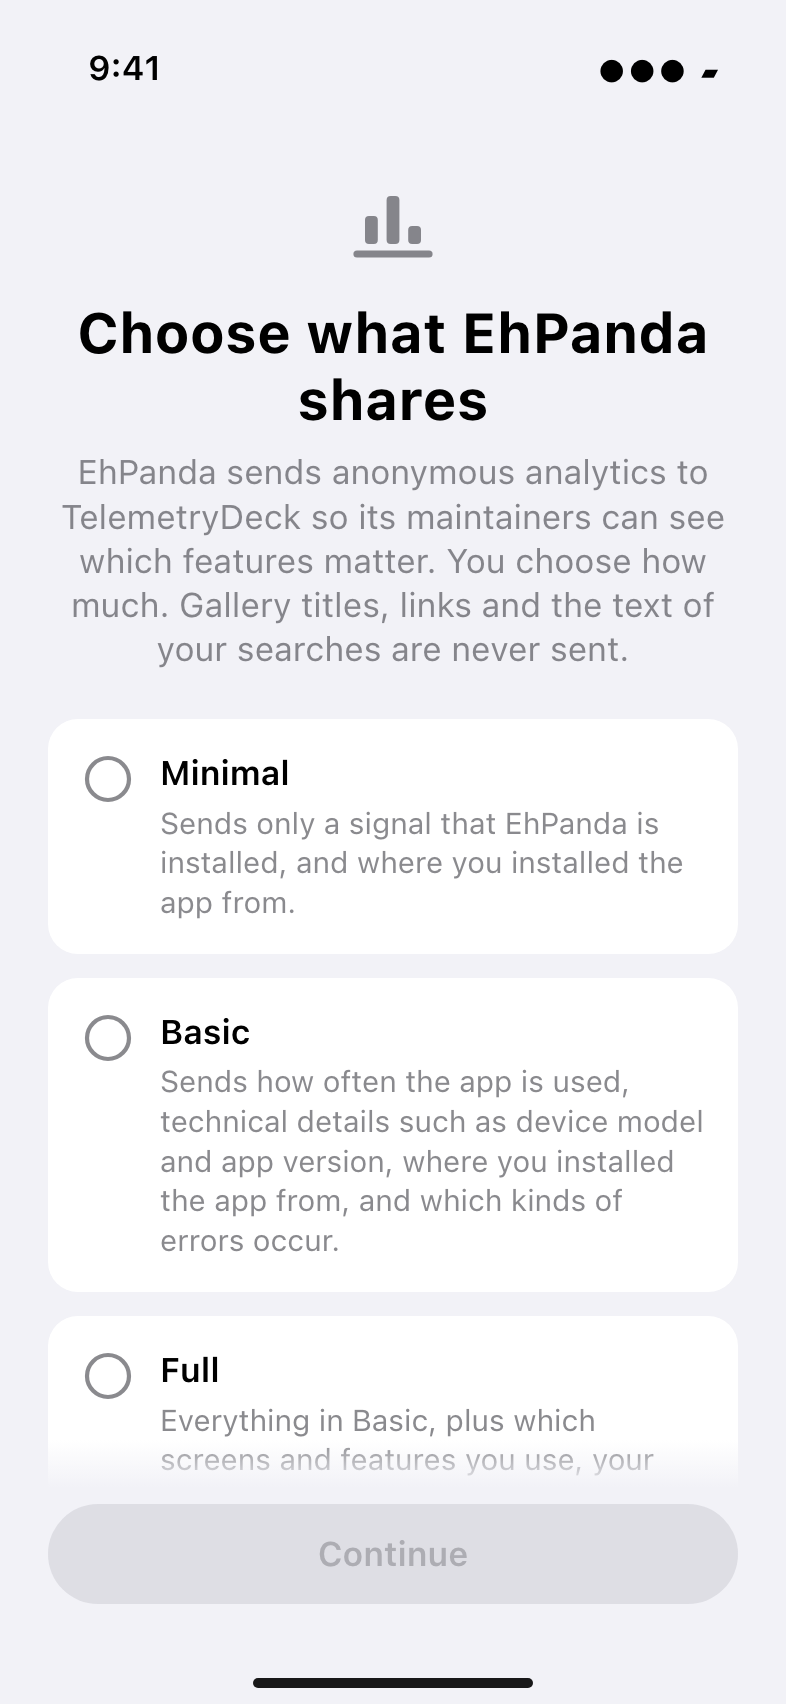
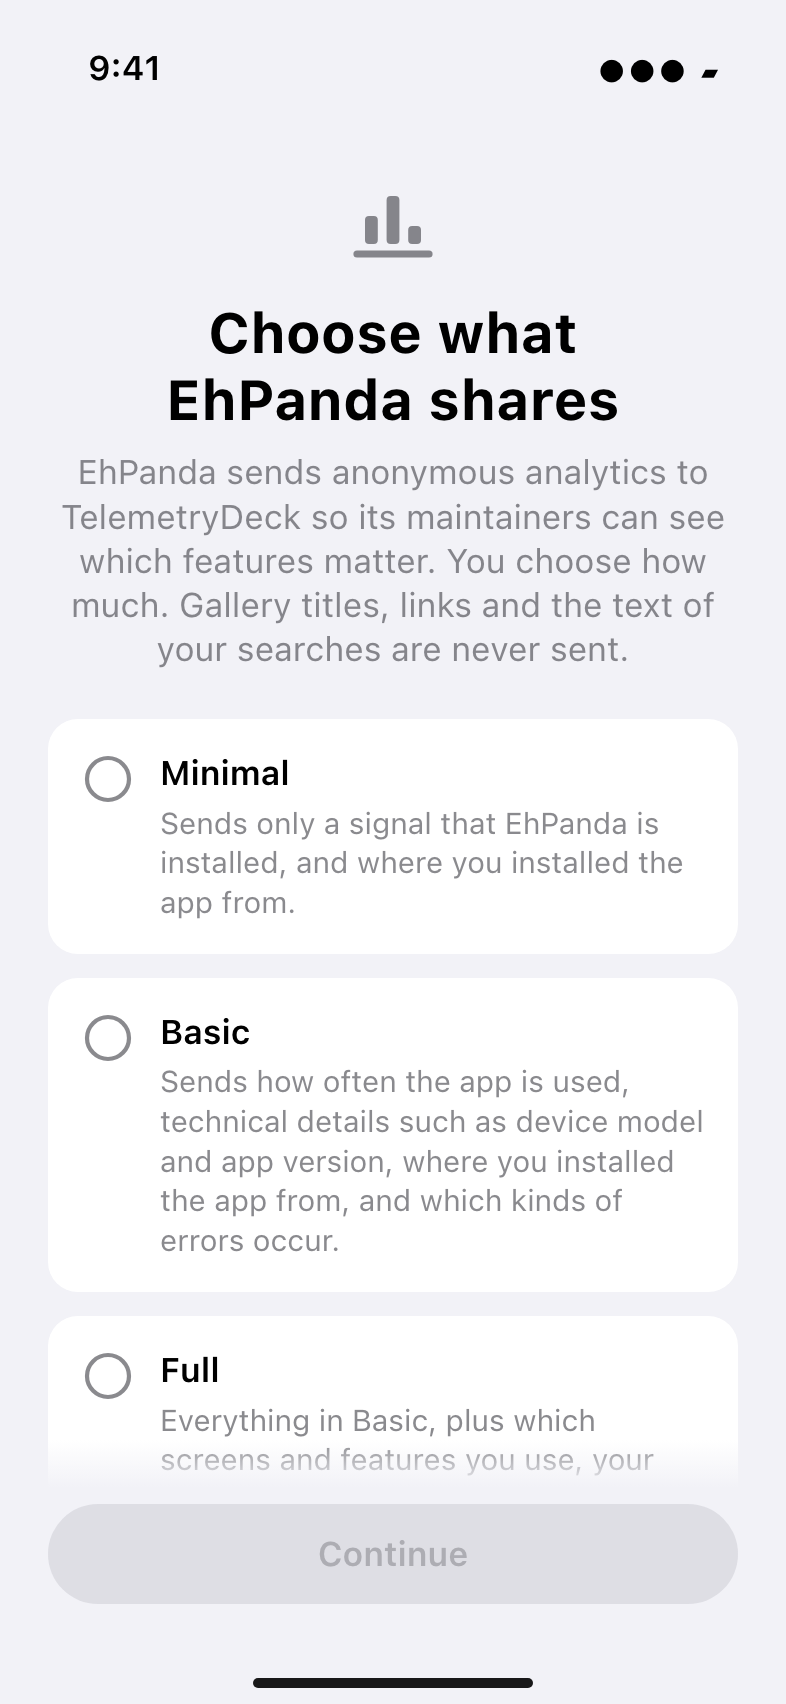
docs(18): take the designer's final spec with the title line-break rule

Changed region(s): [[0.0916, 0.1866, 0.916, 0.2488]]

diff --git a/.planning/phases/18-in-app-3-0-readiness-age-wall-analytics-choice-comment-moder/18-UI-SPEC.md b/.planning/phases/18-in-app-3-0-readiness-age-wall-analytics-choice-comment-moder/18-UI-SPEC.md
@@ -269,6 +269,12 @@ your mind, and a shared Continue keeps both first-launch screens one pattern.
 1. Symbol `chart.bar.xaxis`, `.font(.largeTitle)` + `.imageScale(.large)` (≈ 48pt at default), `.secondary` (neutral — not accent, so nothing nudges), `.accessibilityHidden(true)`.
    32pt from top (72pt regular width).
 2. 16pt · Title `consent.title`, `.title.bold()`, centred, `.isHeader`.
+   **Line breaks (owner msg 1822):** the title must never end on a single word. At default size on iPhone, en
+   reads "Choose what / EhPanda shares", not "Choose what EhPanda / shares". SwiftUI `Text` does this by default
+   (it pulls the previous word down when the last line would hold one word), so: plain `Text`, no `\n` in any
+   locale's string, no `.minimumScaleFactor`, no `.lineLimit`, no fixed width on the title. Acceptance: in every
+   locale and every text size, the title's last line holds at least two words (zh/ja/ko: at least two characters).
+   Same rule for the age wall title (C-2) and the Blocked Users empty-state title.
 3. 8pt · Body `consent.body`, `.body`, `.secondary`, centred.
 4. 24pt · **Three `ChoiceCard`s**, order Minimal, Basic, Full (owner's order; Minimal replaces None, owner msg 1795), 12pt apart, all identical in size rules,
    type and colour while unselected — no badge, no "recommended", no different weight.
